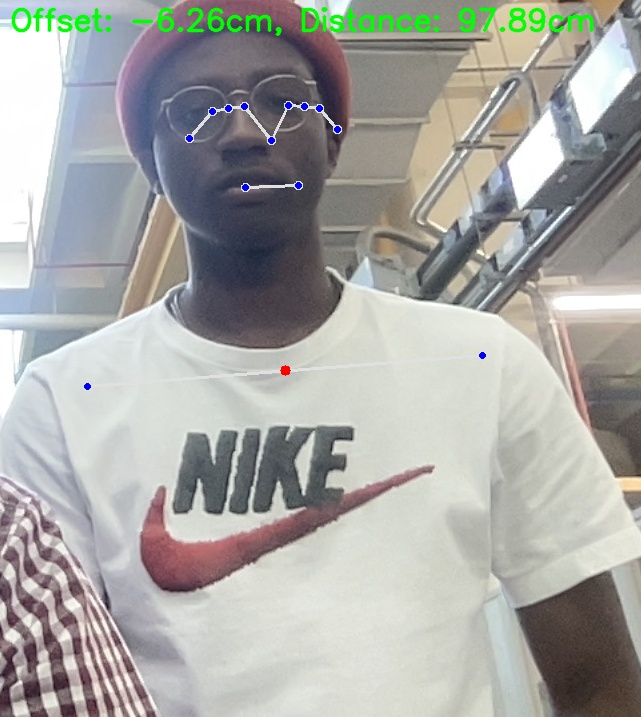
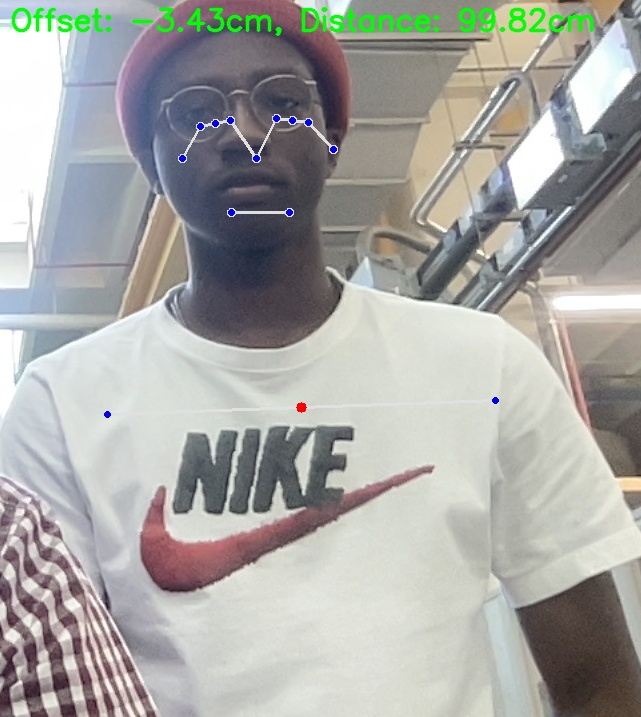
added video code

diff --git a/yolo_pipe_video/video_yolo_pipe.py b/yolo_pipe_video/video_yolo_pipe.py
@@ -1,0 +1,137 @@
+import cv2
+import numpy as np
+import math
+import os
+import mediapipe as mp
+
+
+# Mediapipe processing
+FOV = 70  # Field of View in degrees
+RW = 1280  # Resolution Width in pixels
+KNOWN_WIDTH = 35  # Approximate shoulder width of an adult in cm
+
+
+def calculate_focal_length_in_pixels(resolution_width, FOV_degrees):
+    FOV_radians = FOV_degrees * (math.pi / 180)
+    focal_length_pixels = resolution_width / (2 * math.tan(FOV_radians / 2))
+    return focal_length_pixels
+
+FOCAL_LENGTH = calculate_focal_length_in_pixels(RW, FOV)
+
+def estimate_position_and_distance(image_width, image_height, landmark1, landmark2, focal_length, known_width):
+    pixel_distance = math.hypot((landmark1.x - landmark2.x) * image_width, (landmark1.y - landmark2.y) * image_height)
+    distance = (known_width * focal_length) / pixel_distance
+    avg_x = (landmark1.x + landmark2.x) / 2 * image_width
+    avg_y = (landmark1.y + landmark2.y) / 2 * image_height
+    center_x = image_width / 2
+    pixel_offset = avg_x - center_x
+    distance_per_pixel = math.tan(math.radians(FOV / 2)) * 2 * distance / image_width
+    cm_offset = pixel_offset * distance_per_pixel
+    return cm_offset, distance, (int(avg_x), int(avg_y))
+
+
+
+def process_image(input_image_name):
+    # Load YOLO
+    net = cv2.dnn.readNet("../yolo_config/yolov3.weights", "../yolo_config/yolov3.cfg")
+    layer_names = net.getLayerNames()
+    output_layers = [layer_names[i - 1] for i in net.getUnconnectedOutLayers().flatten()]
+
+    # Load image
+    image = cv2.imread(input_image_name)
+    height, width, channels = image.shape
+
+    # Detecting objects
+    blob = cv2.dnn.blobFromImage(image, 0.00392, (416, 416), (0, 0, 0), True, crop=False)
+    net.setInput(blob)
+    outs = net.forward(output_layers)
+
+    class_ids = []
+    confidences = []
+    boxes = []
+    for out in outs:
+        for detection in out:
+            scores = detection[5:]
+            class_id = np.argmax(scores)
+            confidence = scores[class_id]
+            if confidence > 0.5 and class_id == 0:  # Assuming class_id 0 corresponds to persons
+                # Object detected
+                center_x = int(detection[0] * width)
+                center_y = int(detection[1] * height)
+                w = int(detection[2] * width)
+                h = int(detection[3] * height)
+
+                # Rectangle coordinates
+                x = int(center_x - w / 2)
+                y = int(center_y - h / 2)
+
+                boxes.append([x, y, w, h])
+                confidences.append(float(confidence))
+                class_ids.append(class_id)
+
+    indexes = cv2.dnn.NMSBoxes(boxes, confidences, 0.5, 0.4)
+
+    # Create directories
+    processed_directory = "yolo_person_processed"
+    detections_directory = "yolo_person_detections"
+    os.makedirs(processed_directory, exist_ok=True)
+    os.makedirs(detections_directory, exist_ok=True)
+
+    # YOLO detection and cropping code...
+    for i in range(len(boxes)):
+        if i in indexes:
+            x, y, w, h = boxes[i]
+            crop_img = image[y:y+h, x:x+w]
+            cv2.imwrite(f'{detections_directory}/person_{i}.jpg', crop_img)
+
+    
+    xy_coordinates = []
+
+    mp_pose = mp.solutions.pose
+    pose = mp_pose.Pose(min_detection_confidence=0.5, min_tracking_confidence=0.5)
+
+    for filename in os.listdir(detections_directory):
+        if filename.endswith(".jpg") or filename.endswith(".png"):
+            image_path = os.path.join(detections_directory, filename)
+            image = cv2.imread(image_path)
+            image = cv2.cvtColor(image, cv2.COLOR_BGR2RGB)
+
+            results = pose.process(image)
+
+            if results.pose_landmarks:
+                landmark1 = results.pose_landmarks.landmark[mp_pose.PoseLandmark.LEFT_SHOULDER]
+                landmark2 = results.pose_landmarks.landmark[mp_pose.PoseLandmark.RIGHT_SHOULDER]
+
+                
+                ih, iw, ic = image.shape
+                cm_offset, distance, center_point = estimate_position_and_distance(iw, ih, landmark1, landmark2, FOCAL_LENGTH, KNOWN_WIDTH)
+                xy_coordinates.append((cm_offset, distance))
+
+                mp.solutions.drawing_utils.draw_landmarks(image, results.pose_landmarks, mp_pose.POSE_CONNECTIONS)
+                cv2.circle(image, center_point, 5, (255, 0, 0), -1)
+                cv2.putText(image, f"Offset: {cm_offset:.2f}cm, Distance: {distance:.2f}cm", (10, 30), cv2.FONT_HERSHEY_SIMPLEX, 1, (0, 255, 0), 2, cv2.LINE_AA)
+                
+                print(f"Offset: {cm_offset:.2f}cm, Distance: {distance:.2f}cm")
+                # save these the offset and distance under filename.npy 
+                os.makedirs("xy_data", exist_ok=True)
+                np.save(f"xy_data/{filename}.npy", np.array([cm_offset, distance]))
+                
+
+                processed_image_path = os.path.join(processed_directory, filename)
+                cv2.imwrite(processed_image_path, cv2.cvtColor(image, cv2.COLOR_RGB2BGR))
+                # Load the original image again
+                image = cv2.imread(input_image_name)
+                # Paste processed person images back onto the original image
+                for i in range(len(boxes)):
+                    if i in indexes:                        
+                        # if the file does not exist, skip it.
+                        try: 
+                            x, y, w, h = boxes[i]
+                            processed_person_image_path = os.path.join(processed_directory, f"person_{i}.jpg")
+                            processed_person_image = cv2.imread(processed_person_image_path)
+                            processed_person_image = cv2.resize(processed_person_image, (w, h))
+                            image[y:y+h, x:x+w] = processed_person_image 
+                        except cv2.error:
+                            pass
+                return image
+                

diff --git a/yolo_pipe_video/video_to_picture_frames.py b/yolo_pipe_video/video_to_picture_frames.py
@@ -1,0 +1,36 @@
+# write a program to get a video and convert it to frames, saved in a folder
+
+import cv2
+import os
+# def video_to_frames(video_path, frames_folder):
+#     # Opens the Video file
+#     os.makedirs(frames_folder, exist_ok=True)
+#     cap = cv2.VideoCapture(video_path)
+#     i = 0
+#     while(cap.isOpened()):
+#         ret, frame = cap.read()
+#         if ret == False:
+#             break
+#         cv2.imwrite(f'{frames_folder}/frame_{i}.jpg', frame)
+#         i += 1
+ 
+#     cap.release()
+#     cv2.destroyAllWindows()
+    
+# video_to_frames("vids/testVid.mov", "frames")  # Uncomment this line to run the function
+
+os.makedirs("detected_video", exist_ok=True)
+
+import os
+from video_yolo_pipe import process_image
+
+frames_folder = 'frames'
+
+# Loop through each file in the frames folder
+for file in os.listdir(frames_folder):
+    file_path = os.path.join(frames_folder, file)
+    if file_path.lower().endswith(('.png', '.jpg', '.jpeg')):
+        processed_image = process_image(file_path)
+        # Now you can do something with the processed image
+        cv2.imwrite(f'detected_video/{file}', processed_image)
+    
